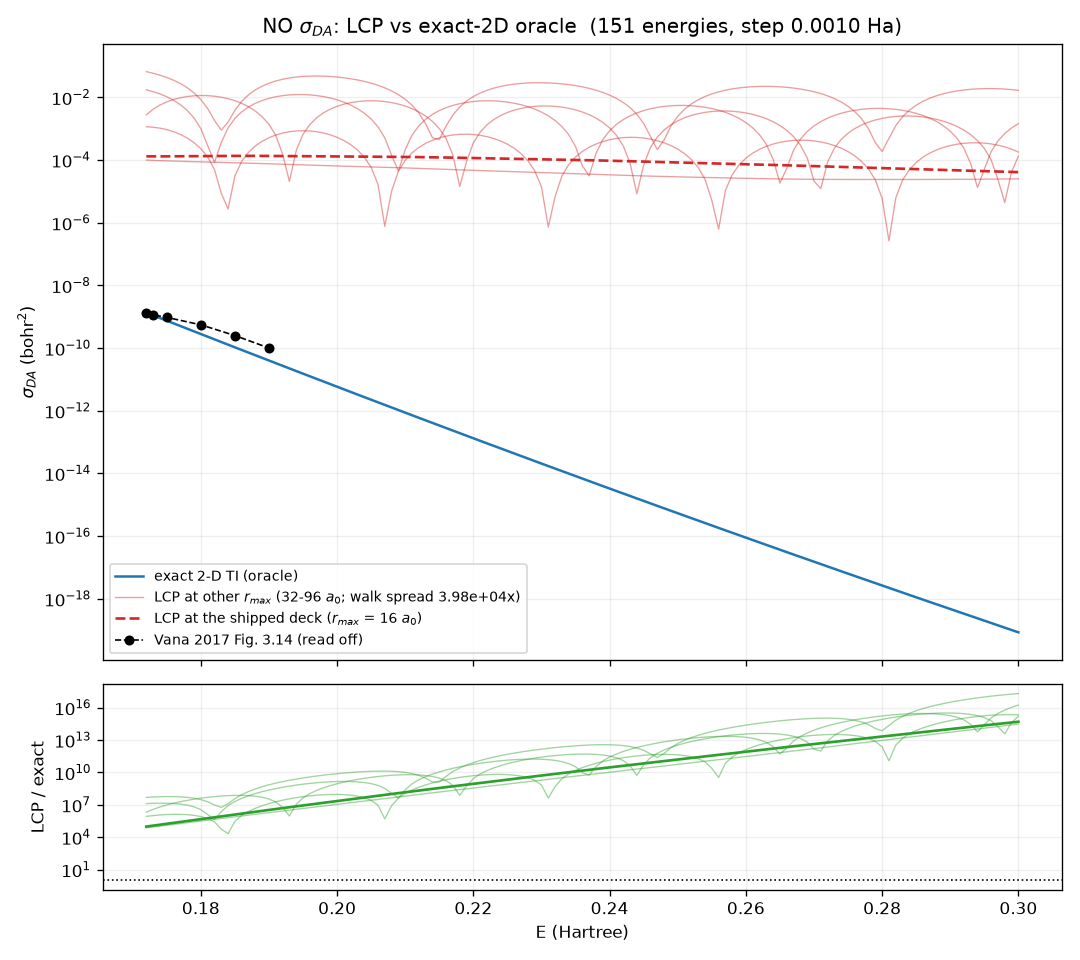
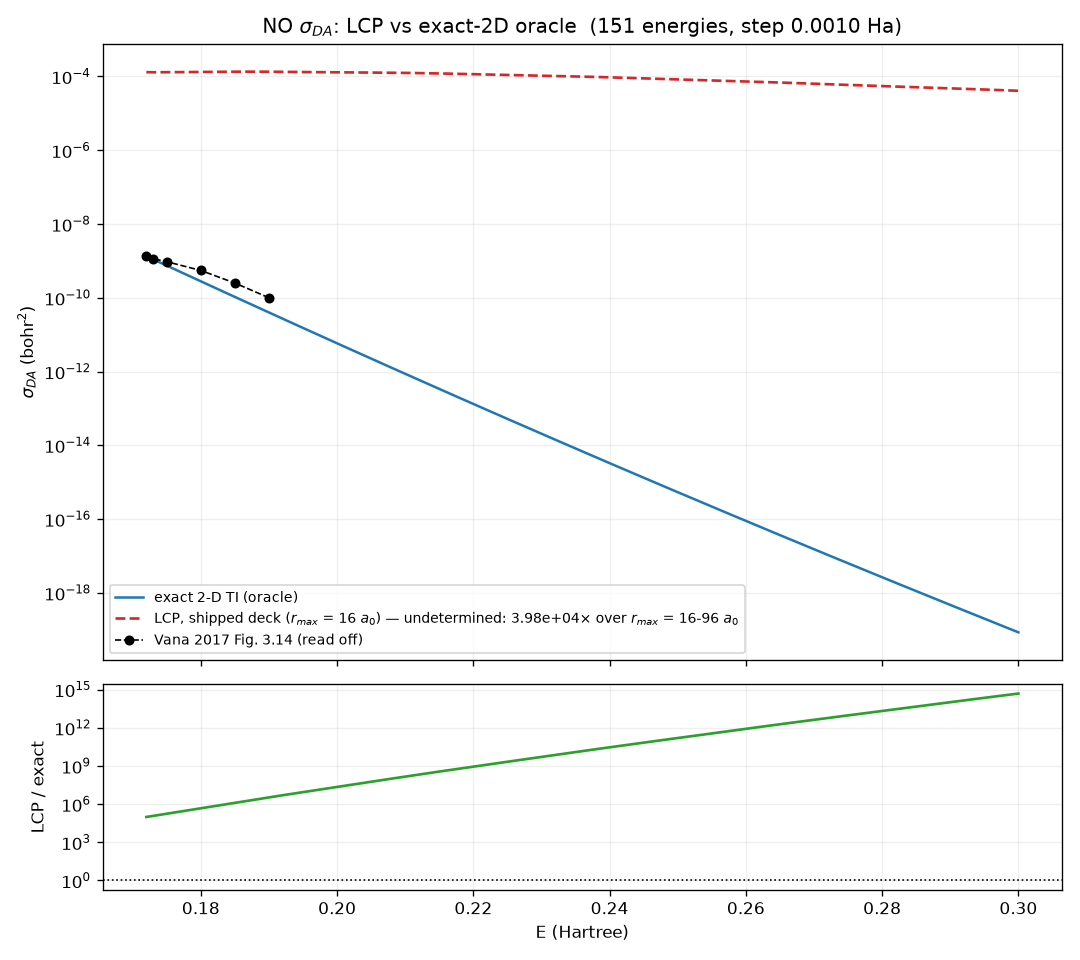
docs(diatomic): regenerate the DA figures without the ladder, and match the prose
The figures now draw only the shipped deck's LCP, with each molecule's verdict
in its own legend: NO undetermined (3.98e4 spread, non-monotone), F2 determined
to ~1.8% over 16-80 bohr with only the 96 bohr walk breaking.

The prose claimed the figure showed a ladder that is no longer drawn. It now
says the walk was rerun and what it established, and why those extra walks are
deliberately not plotted: they are not alternative estimates of one quantity
but, on NO, failed computations, and drawing them beside a real curve invites
averaging or reading the spread as an uncertainty band.

Claude-Session: https://claude.ai/code/session_01NxwNdBLUXBampDLrusGrAS

diff --git a/docs/physics/diatomic-ve-cross-sections.md b/docs/physics/diatomic-ve-cross-sections.md
@@ -198,19 +198,27 @@ and `CLAUDE.md` quoted "~11% of exact" — both were reading the single crossing
 were a characteristic agreement. It is not: the LCP under-predicts below ~0.03 and
 over-predicts above it, and only *passes through* good agreement on the way.
 
-**That sweep is a real property of F₂'s deck, and the figure now shows why we can say
-so.** The LCP is drawn as its `r_max` ladder (16/32/48/64/80/96) rather than as a single
-curve, because NO's pole walk does not converge in the electronic box. On F₂ **five of
-the six walks agree to ~1.8 %**, so the shipped deck's curve is determined; only
-`r_max = 96` breaks, to a ratio range of [0.027, 3.51], and it is the stray line on
-that figure. On NO the spread is **3.98 × 10⁴** and the larger boxes produce deep
-oscillatory minima spanning 1e-6 to 1e-1 where the shipped deck is smooth and flat.
+**That sweep is a real property of F₂'s deck, and it was checked rather than assumed.**
+The LCP's `V_d`/`Γ` come from an ECS resonance-pole walk, which is not guaranteed to be
+independent of the electronic box, so the walk was rerun at
+`r_max` = 16/32/48/64/80/96 on both molecules. On F₂ **five of the six agree to ~1.8 %**
+— the shipped deck's curve is determined, and only `r_max = 96` breaks, to a ratio range
+of [0.027, 3.51]. On NO the spread is **3.98 × 10⁴**, non-monotone across the whole
+range, with the larger boxes producing deep oscillatory minima spanning 1e-6 to 1e-1
+where the shipped deck is smooth and flat.
 
-The distinction is worth stating precisely, because the two failures are not the same
-kind: **on F₂ the LCP's `V_d`/`Γ` are determined and wrong** by the documented
-energy-dependent factor; **on NO they are undetermined.** A single curve, or an
-envelope band, would have flattened that difference — an envelope in particular would
-have made F₂ look as undetermined as NO on the strength of one failed walk.
+The distinction matters, because the two failures are not the same kind: **on F₂ the
+LCP's `V_d`/`Γ` are determined and wrong** by the documented energy-dependent factor;
+**on NO they are undetermined** — a second defect, in NO's pole walk, independent of the
+volume-T-matrix one and still unfixed.
+
+**Those extra walks are not plotted, deliberately.** They are not alternative estimates
+of the same quantity: on NO the walk does not converge, so they are failed computations,
+and drawing them beside a real curve would invite a reader to average them or to read
+the spread as an uncertainty band. What the ladder establishes is a yes/no — whether the
+method determines `V_d`/`Γ` on that molecule at all — which is a sentence, not a curve.
+Each figure's legend carries its own verdict, and
+`validation/diatomic/da_figure.py --ladder` recomputes the spread on demand.
 
 (The older 13-point curve was not wrong — its endpoints match this dense run exactly — it was
 simply too sparse to show that the ratio never settles.)
@@ -248,7 +256,8 @@ to 5–6 significant figures even at 8.4568e-20 (E = 0.300), where the volume ro
 two boxes differ by 5460×.
 
 The LCP curve on the figure below carries its own, separate caveat — NO's ECS pole
-walk does not converge in `r_max` — see the figure's caption.
+walk does not converge in `r_max`, so that curve is one member of a family the method
+does not pin down. Its legend says so.
 
 ![NO σ_DA: LCP vs exact-2D oracle](figures/no-2d-da-lcp-vs-exact.png)
 
